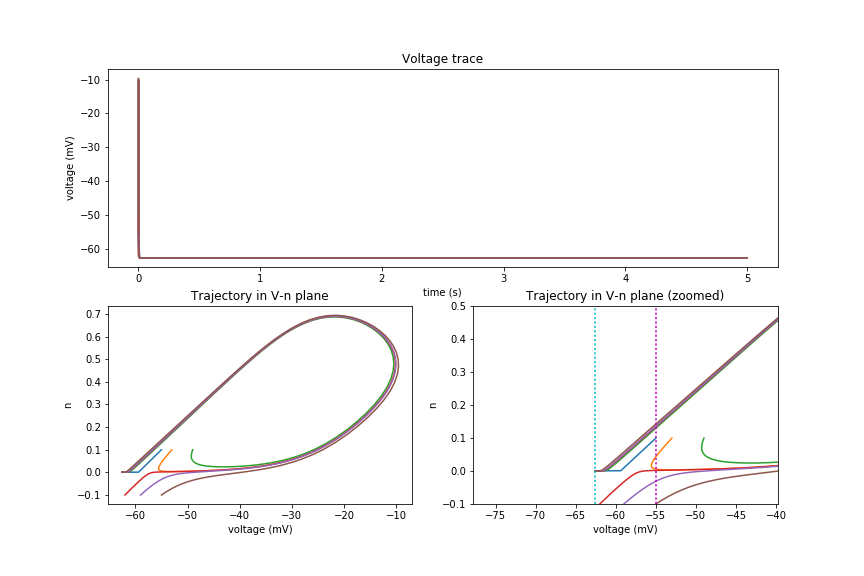
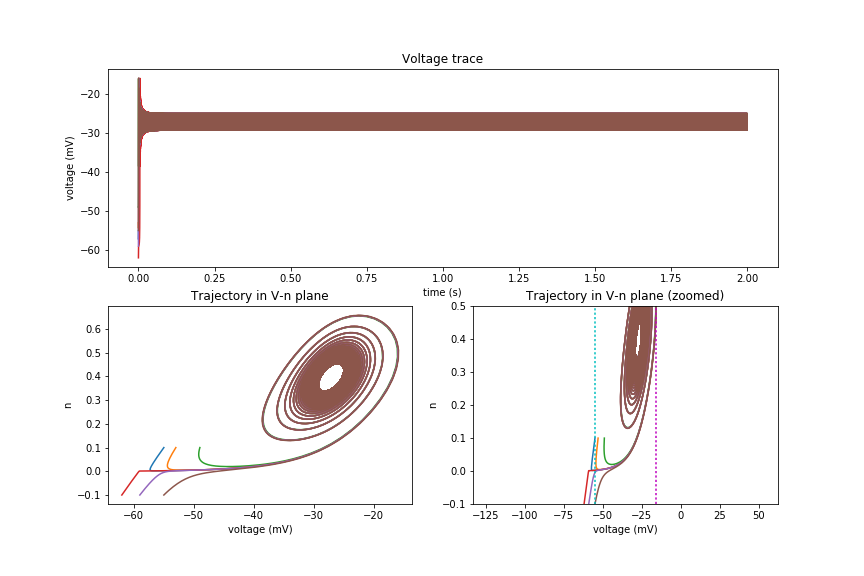
Trying to plot phase planes. In progress

diff --git a/Neuron.py b/Neuron.py
@@ -7,7 +7,7 @@ class Object(object):
     pass
 
 
-plt.rcParams['figure.figsize'] = 12, 4
+plt.rcParams['figure.figsize'] = 12, 12
 plt.rcParams['agg.path.chunksize'] = 10000
 
 
@@ -40,10 +40,10 @@ def simulate_neuron(Cm, Iapp, number, v0, n0, duration, I_noise):
                
     return Spikes, t, V, n    
     
-def find_points(Cm, Iapp, v0=[-55,-53,-49, -62,-59,-55]*mV,n0=[.1,.1,.1, -.1,-.1,-.1]):
+def find_points(Cm, Iapp, v0=[-75,-65,-50, -65,-60,-55]*mV,n0=[.05,.05,.05, -.1,-.1,-.1]):
     '''finds the node and lowest point of limimt cycle in terms of voltage values
         trying to define threshold automatically '''
-    Spikes, t, V, n = simulate_neuron(Cm=Cm, Iapp=Iapp, number = 6, v0=v0, n0=n0, duration=5000*ms, I_noise=0*uA)
+    Spikes, t, V, n = simulate_neuron(Cm=Cm, Iapp=Iapp, number = 6, v0=v0, n0=n0, duration=2000*ms, I_noise=0*uA)
     node = max(V[0])
     cycle_boundary= min (V[-1])
     
@@ -236,6 +236,23 @@ def plot_histograms(node, ISI, ISI_quiet, ISI_burst, Min_Volt, time_above, time_
     plt.xlim((0,1))
     plt.tight_layout()  
     
+def plot_field(tau_n, Iapp):
+    print(tau_n, Iapp)
+    v_grid ,n_grid = np.meshgrid(np.linspace(-80,-40,50), np.linspace(-.05,.1,50))
+    dv_grid = ((-g_Na*1./(1+exp((-20-v_grid)/15.))*(v_grid*mV-E_Na)-g_K*n_grid*(v_grid*mV-E_K)-g_L*(v_grid*mV-E_L)+Iapp)/Cm)/mV*ms
+    dn_grid = (1./(1+exp((-25-v_grid)/5.))-n_grid)/tau_n*ms
+    norm = np.sqrt(np.square(dv_grid)+np.square(dn_grid))
+    dv_grid= np.divide(dv_grid,norm)
+    dn_grid= np.divide(dn_grid,norm)
+    
+    plt.figure()
+#    plt.axis('equal')
+    plt.quiver(v_grid,n_grid,dv_grid,dn_grid, width = .0015)
+   
+    
+   
+    
+    
 defaultclock.dt = 0.01*ms
 
 
@@ -250,7 +267,7 @@ E_K = -90 * mV
 tau = 1.0*ms
 
 tau_n = .155*ms
-Iapp = 4 * uA #/cm**2
+Iapp = 2* uA #/cm**2
 I_noise = .0*uA
 duration = 5000*ms
 
@@ -268,7 +285,9 @@ n_inf = 1./(1+exp((-25-v/mV)/5.)) : 1
 m_inf = 1./(1+exp((-20-v/mV)/15.)) : 1
 '''
 
-find_points(Cm, Iapp)
+plot_field(tau_n=tau_n, Iapp=Iapp)
+#find_points(Cm, Iapp)
+
 
 #plot_everything(Cm, Iapp, duration, I_noise, weight, v0=-50*mV, n0=0)
 
